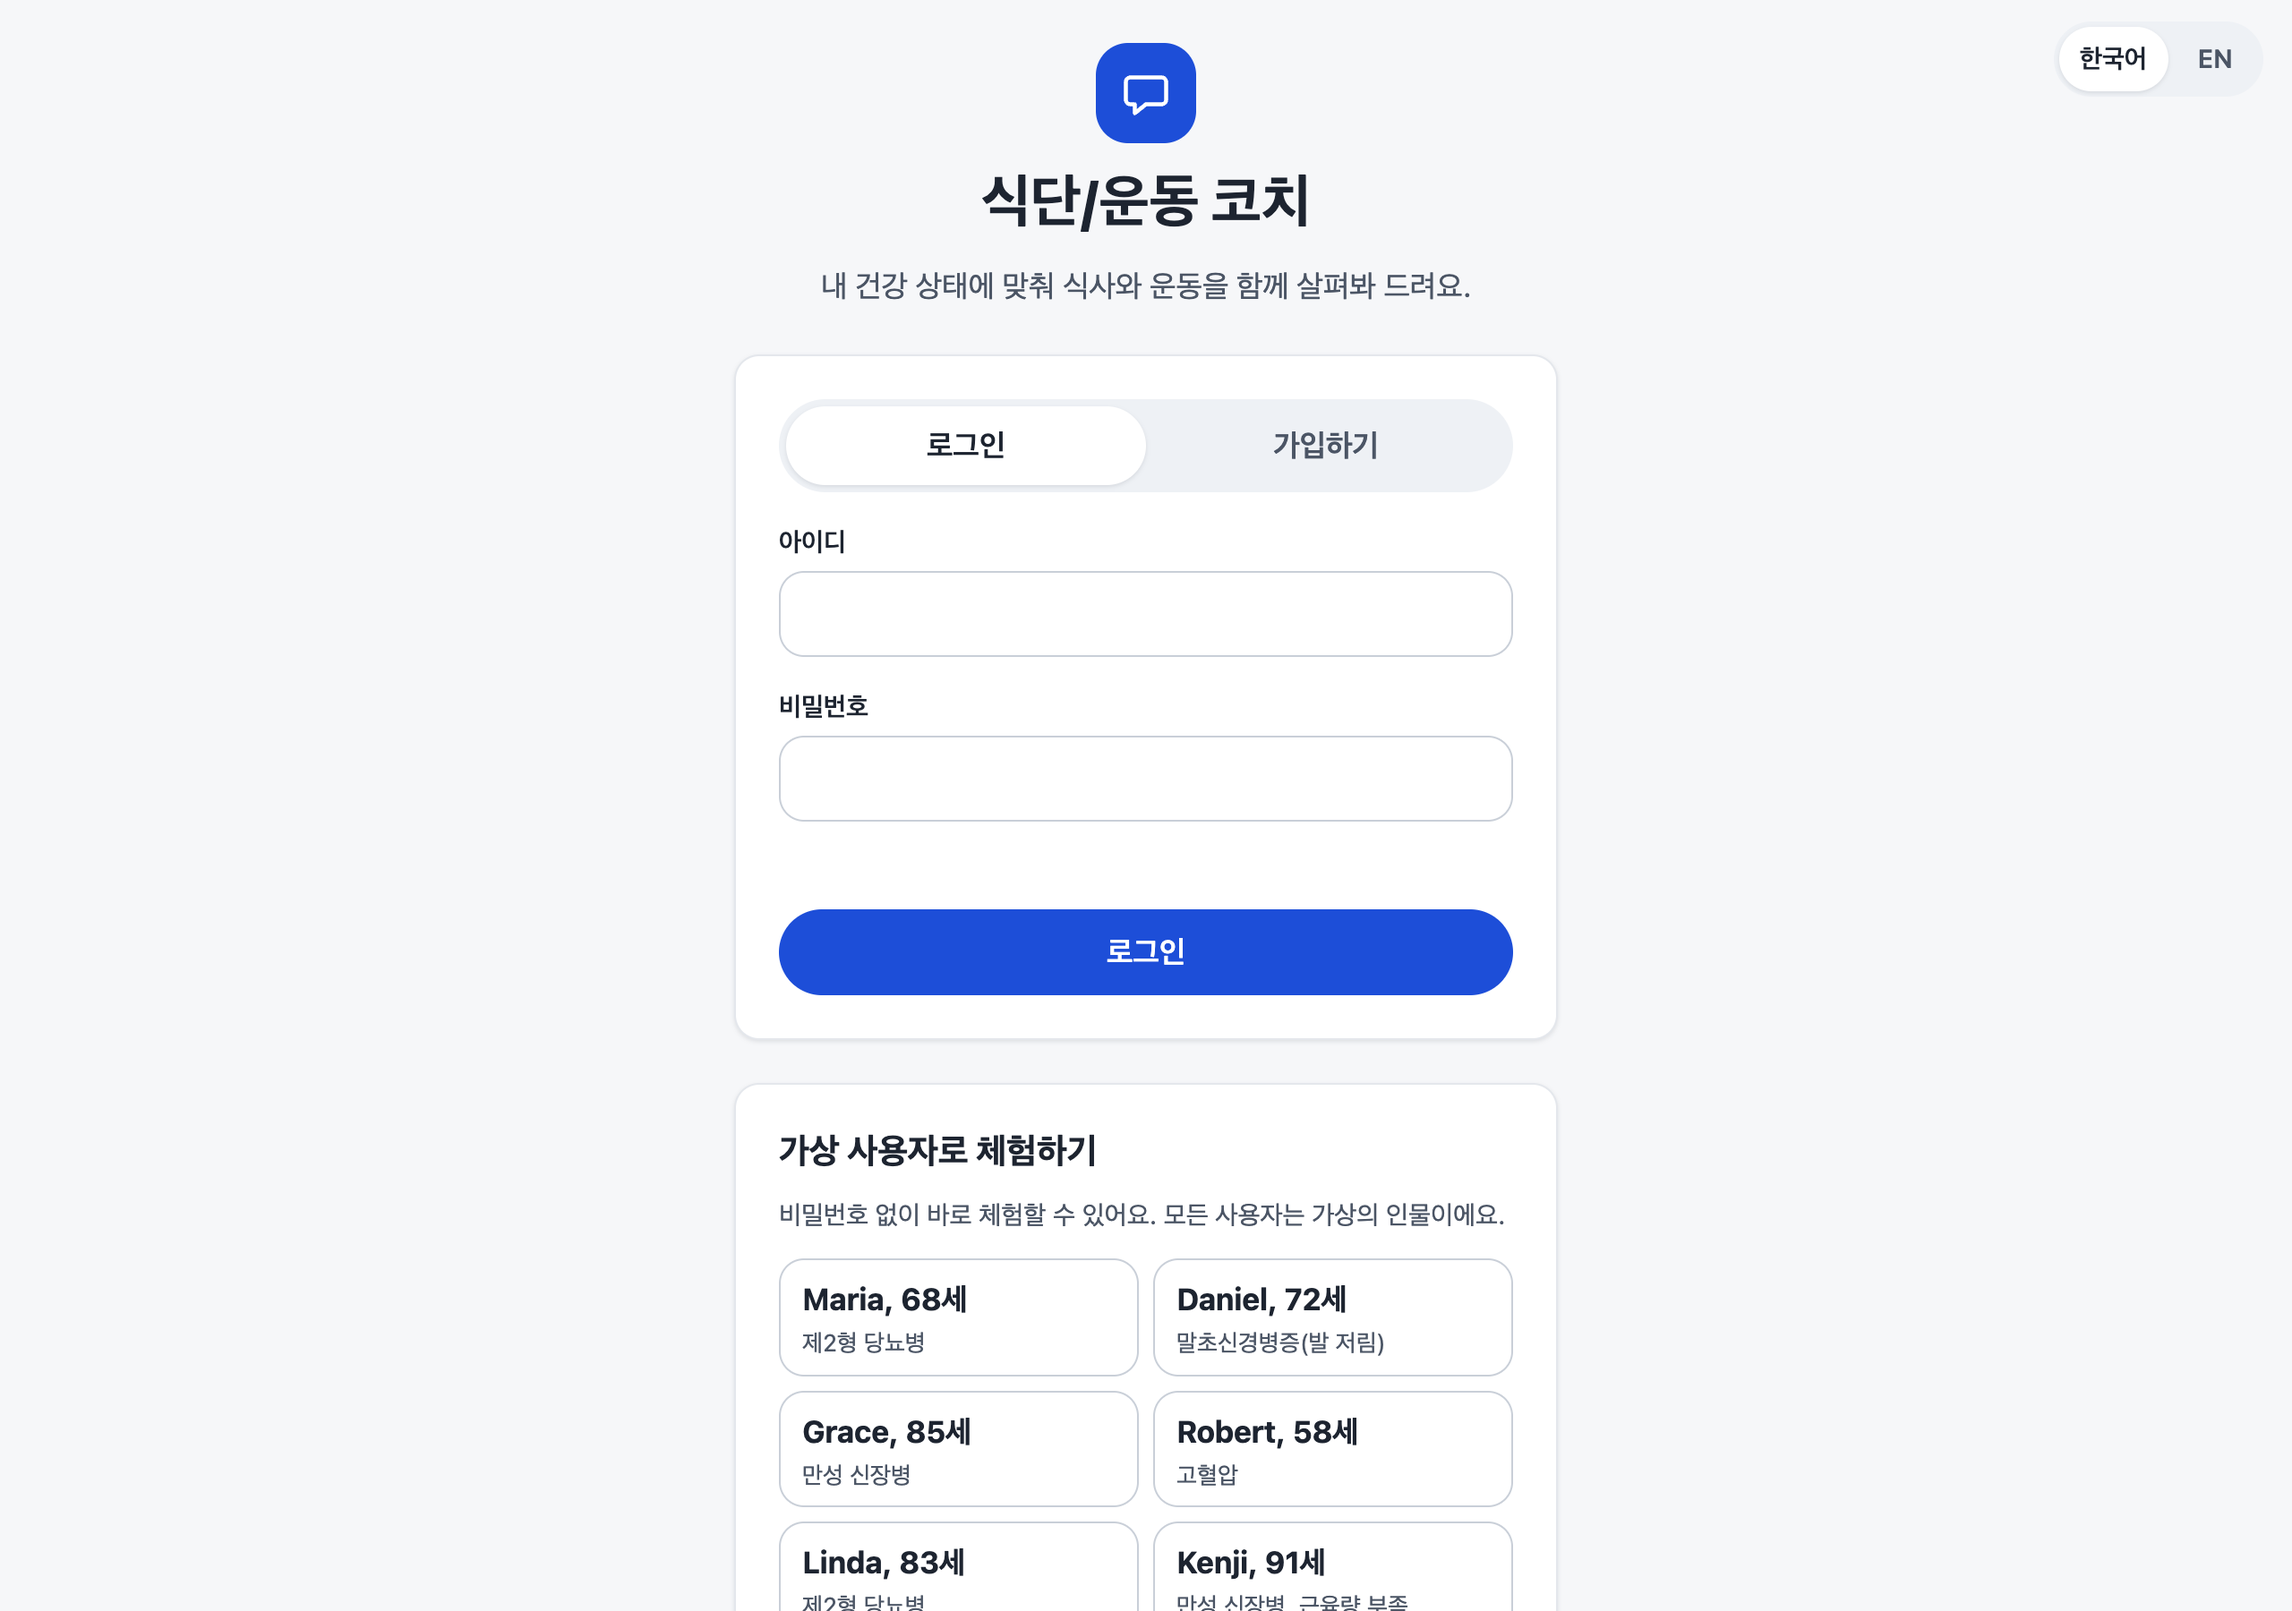
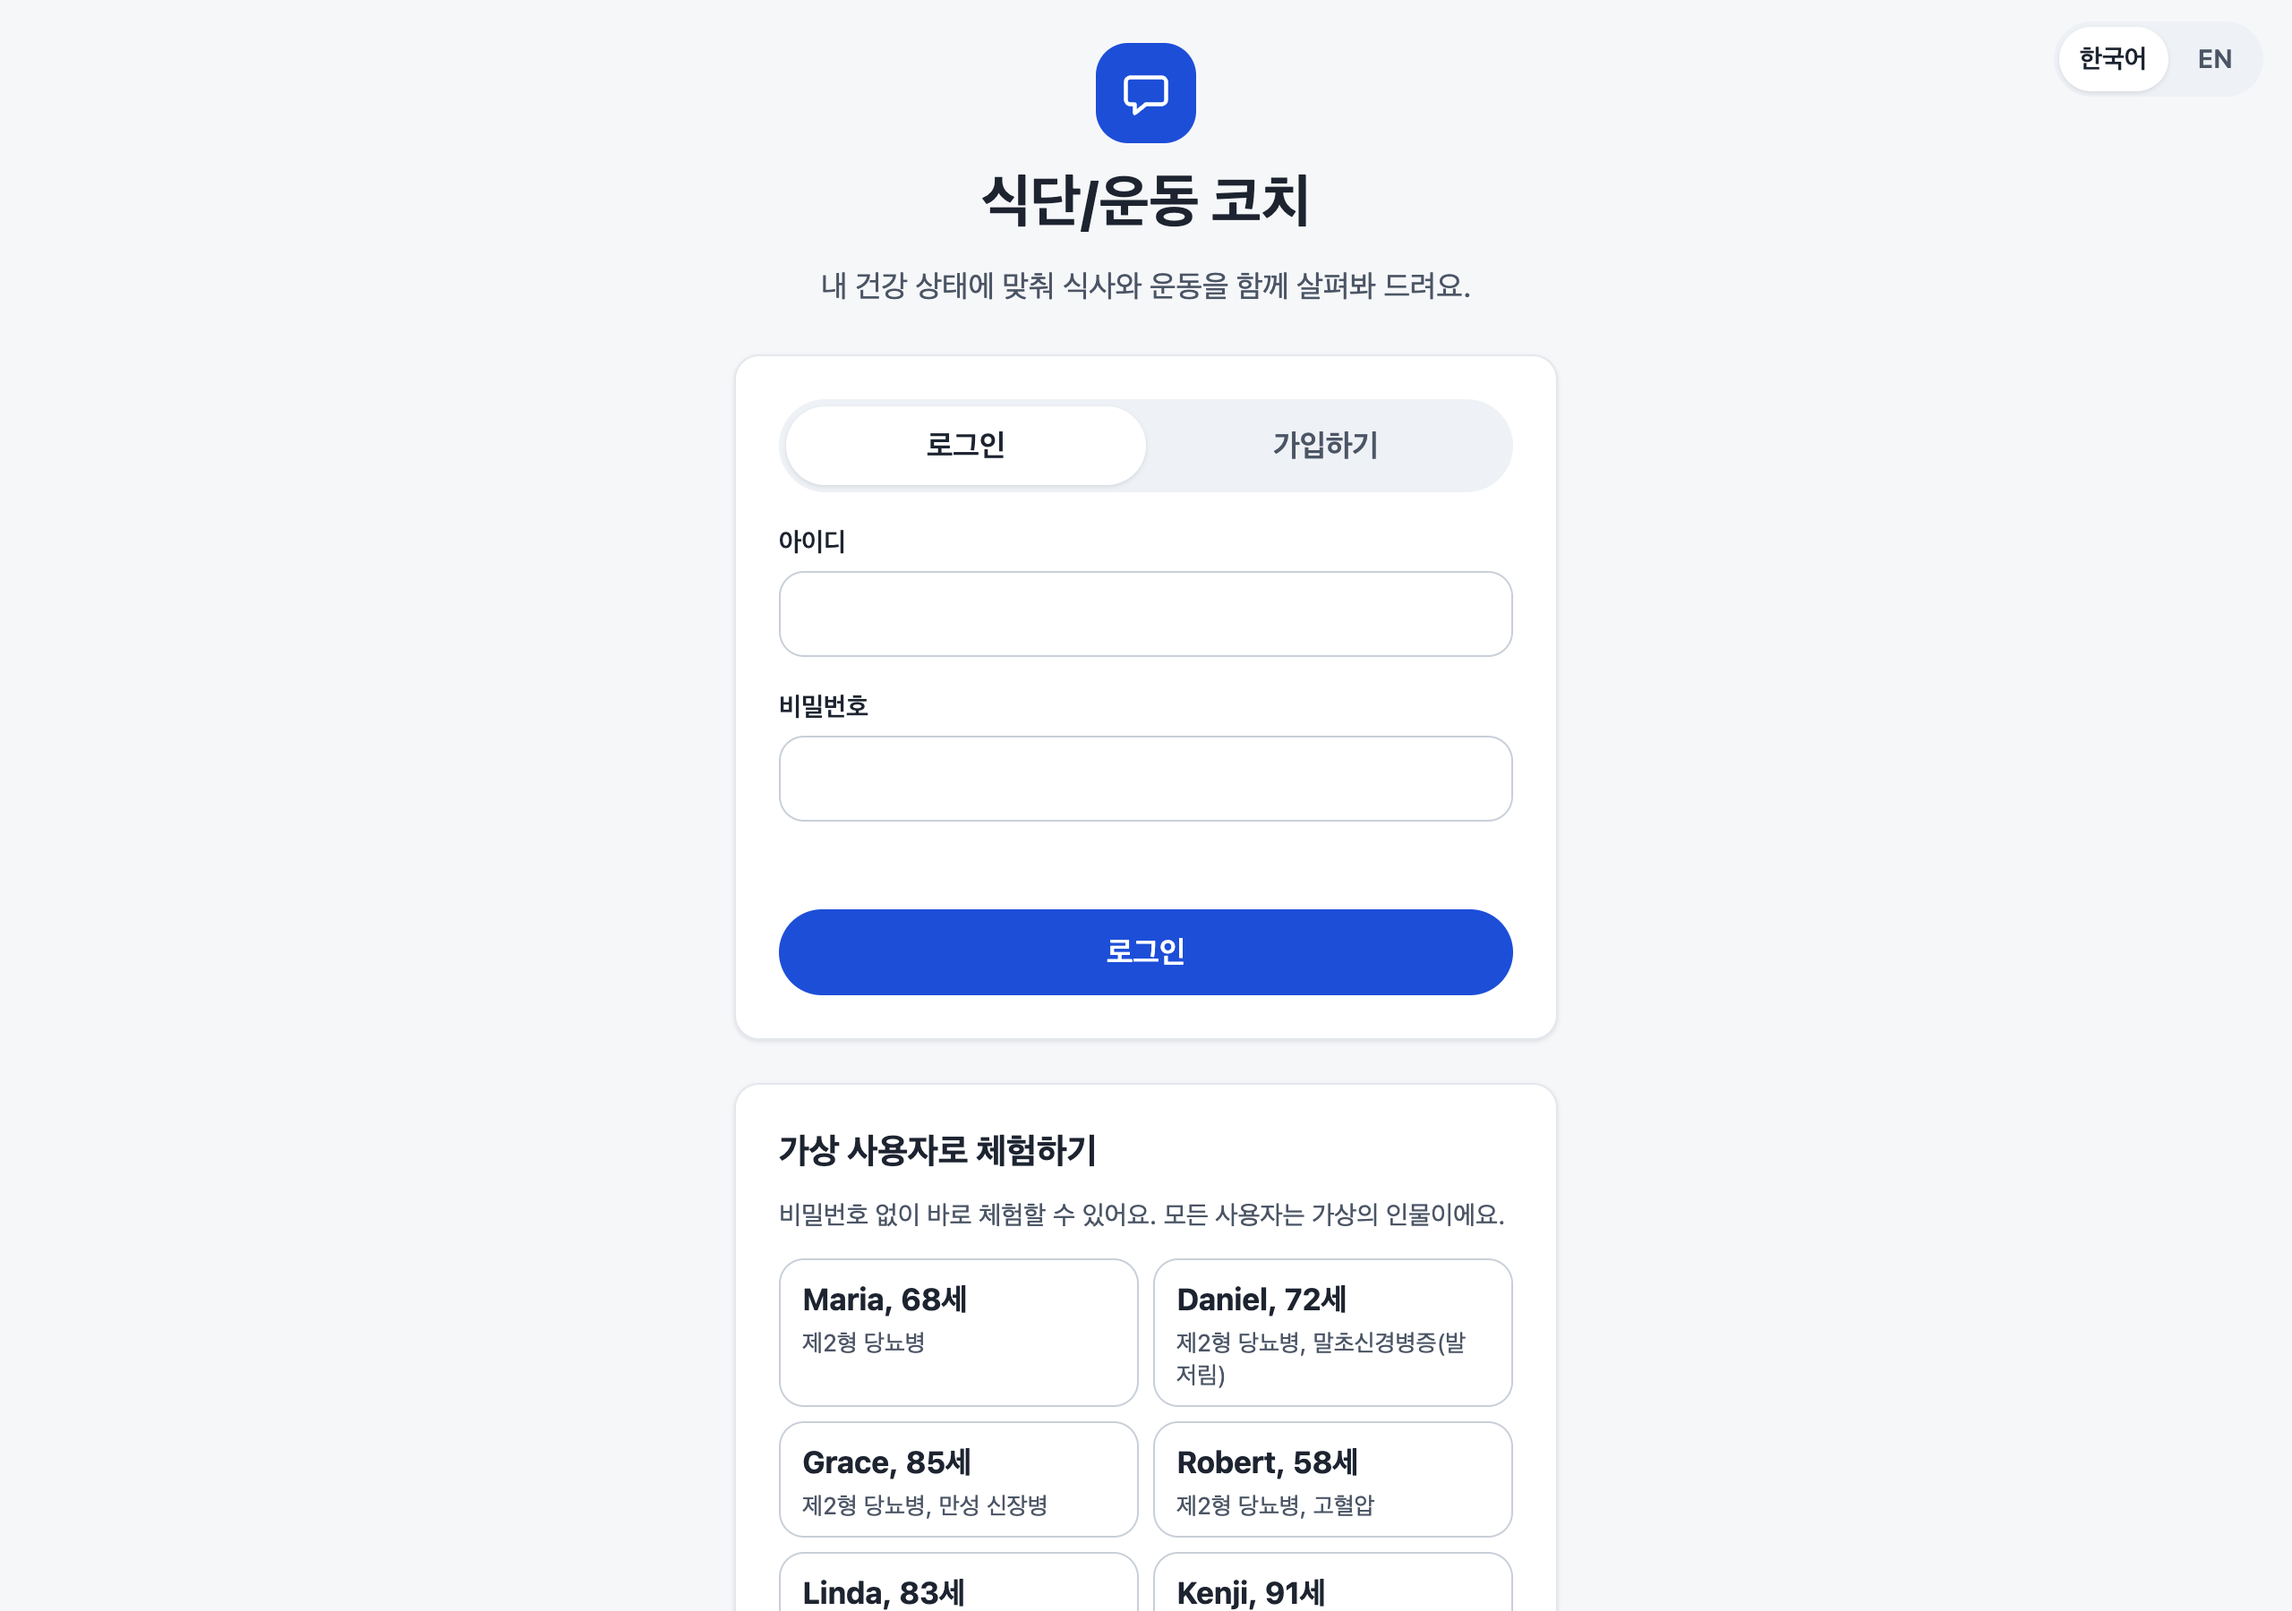
Smaller citation number boxes (larger tap area kept), demo cards list every condition including type 2 diabetes, screenshots refreshed

Changed region(s): [[0.3438, 0.8089, 0.6562, 1.0]]

diff --git a/web/index.html b/web/index.html
@@ -28,8 +28,8 @@ html,body{height:100%}body{overflow:hidden}
 .row{display:flex;gap:var(--s3);align-items:flex-start}.row.me{justify-content:flex-end}
 .bubble{background:var(--brand-soft);color:var(--ink);padding:var(--s3) var(--s4);border-radius:var(--r-md) var(--r-md) 4px var(--r-md);max-width:82%;white-space:pre-wrap}
 .bot{flex:0 1 auto;min-width:0;display:flex;flex-direction:column;gap:var(--s2);max-width:680px;background:var(--surface);border:1px solid var(--line);border-radius:var(--r-md);padding:var(--s3) var(--s4);box-shadow:var(--sh-1)}.bot p+p{margin-top:var(--s3)}.bot .txt{white-space:pre-wrap}
-.cite{min-width:28px;min-height:28px;margin:0 2px;padding:0 6px;border-radius:var(--r-sm);border:1px solid var(--brand);background:var(--brand-soft);color:var(--brand);font:inherit;font-size:.8rem;font-weight:700;cursor:pointer;vertical-align:baseline}
-.srcs{display:flex;flex-wrap:wrap;gap:var(--s2);align-items:center}.srcs .chip{min-height:36px;font-size:var(--fs-sm)}
+.cite{position:relative;min-width:20px;min-height:20px;margin:0 1px;padding:0 4px;border-radius:6px;border:1px solid var(--brand);background:var(--brand-soft);color:var(--brand);font:inherit;font-size:.68rem;line-height:1;font-weight:700;cursor:pointer;vertical-align:.25em}.cite::after{content:"";position:absolute;inset:-8px -5px}
+.srcs{display:flex;flex-wrap:wrap;gap:var(--s2);align-items:center}.srcs .chip{min-height:30px;font-size:var(--fs-sm)}
 .note{display:flex;align-items:center;gap:6px;font-size:var(--fs-sm);color:var(--ink-2)}.note .icon{width:16px;height:16px}
 .dots{display:inline-flex;gap:5px;padding:var(--s2) 0}.dots i{width:8px;height:8px;border-radius:50%;background:var(--ink-2);animation:bl 1.2s infinite}.dots i:nth-child(2){animation-delay:.2s}.dots i:nth-child(3){animation-delay:.4s}
 @keyframes bl{0%,80%,100%{opacity:.25}40%{opacity:1}}

diff --git a/app/server.py b/app/server.py
@@ -323,8 +323,8 @@ class DemoIn(BaseModel):
 @app.get("/api/demo/users", dependencies=[Depends(_demo_only)])
 def demo_users():
     """Login page, demo mode: the synthetic people (first name, age, one line) - never real sign-ups."""
-    return [{"id": i, "name": p["name"].split()[0], "age": p["age"], "line": ", ".join(c for c in p["conditions_ko"] if c != "제2형 당뇨병") or "제2형 당뇨병",
-             "line_en": ", ".join(c.capitalize() for c in p["conditions_en"] if c != "type 2 diabetes") or "Type 2 diabetes"}
+    return [{"id": i, "name": p["name"].split()[0], "age": p["age"], "line": ", ".join(p["conditions_ko"]),
+             "line_en": ", ".join(c.capitalize() for c in p["conditions_en"])}
             for i, p in _profiles().items() if i in SYNTHETIC]
 
 
